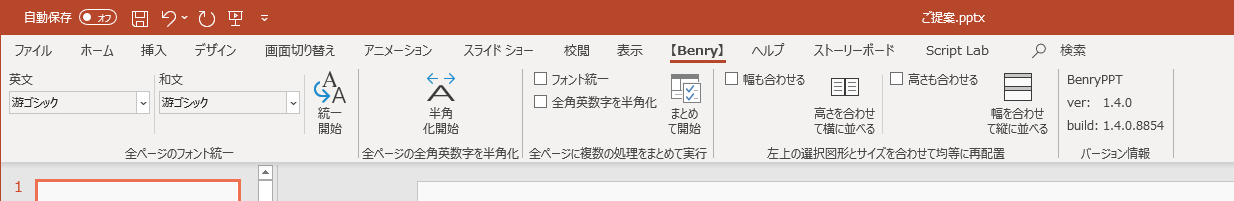
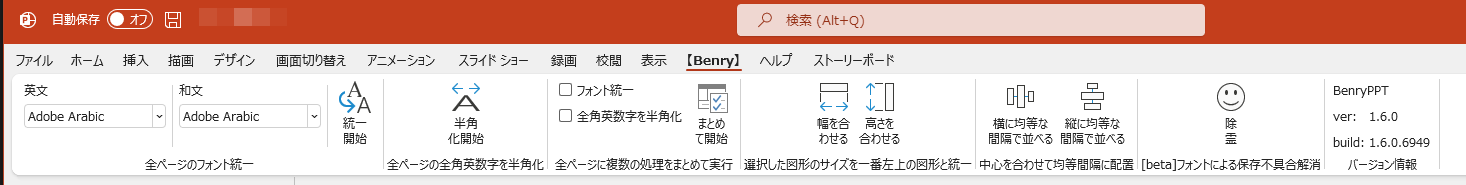
Update README

diff --git a/README.md b/README.md
@@ -12,6 +12,7 @@
 - 全ページの全角英数字を半角に変換する
 - フォント処理、半角処理を一度にまとめて行う
 - サイズを合わせて均等に図形配置する機能
+- [beta]フォントエラーで保存できない現象を解決する機能
 - バージョン表示
 
 その他気が向いたら機能追加予定。
@@ -41,6 +42,8 @@ Windows 10 Pro 64bitの Office 365で動作確認しています。
 
 |日付|バージョン|更新内容|
 |:-:|:-:|:-|
+|2022/03/03|v1.6.0|半角変換機能のバグを修正、フォントエラーで保存できない現象を解決する機能を追加|
+|2020/11/07|v1.5.0|サイズ変更をレイアウト機能から分離して整理|
 |2020/11/01|v1.4.0|図形配置の機能を追加|
 |2020/10/31|v1.3.1|フォント統一の英文フォント設定が保存されないバグを修正|
 |2020/10/27|v1.3.0|全角英字・数字を半角にする機能を追加し、さらにフォント統一とまとめて一度に処理する機能を追加|
